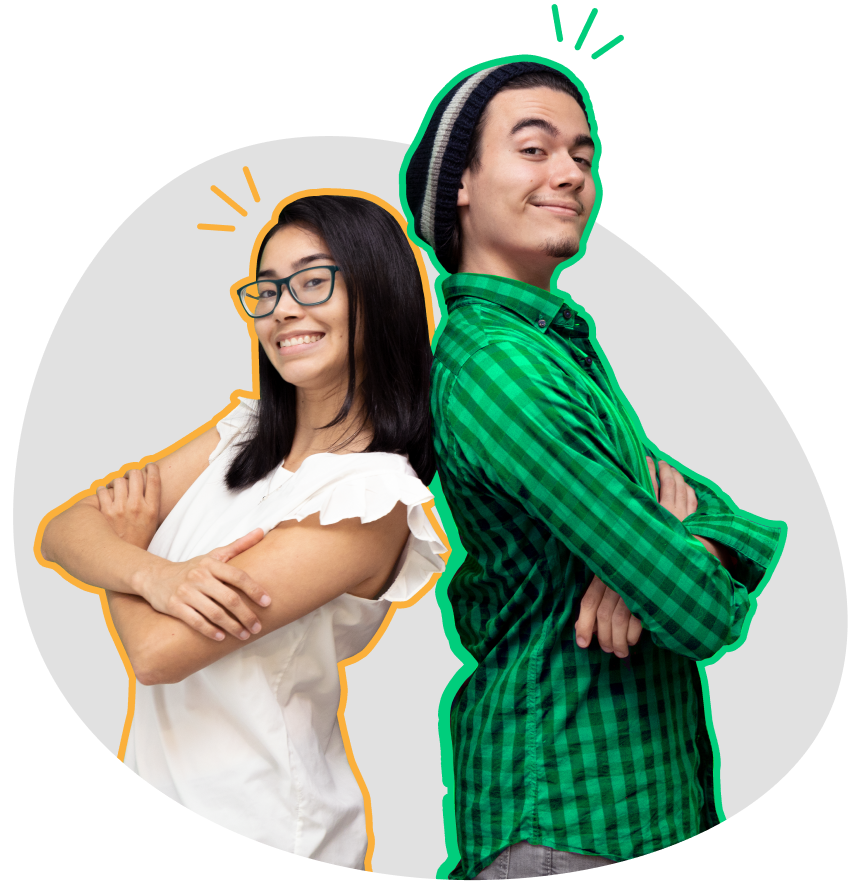
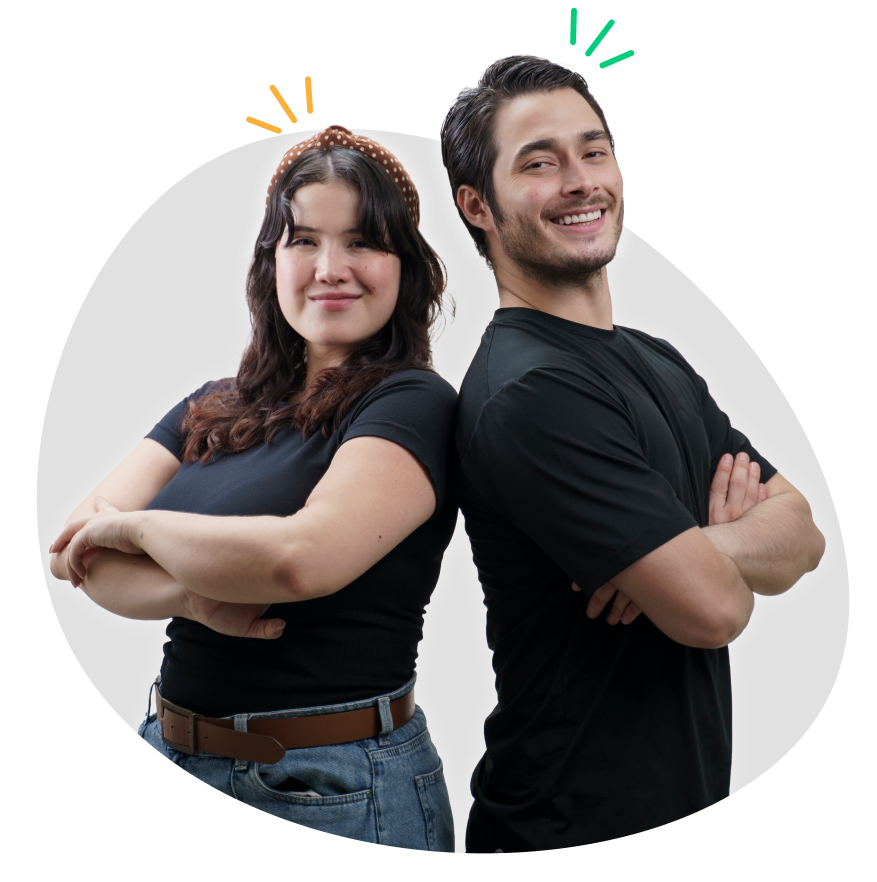
update

diff --git a/app/(onboarding)/team/page.tsx b/app/(onboarding)/team/page.tsx
@@ -1,96 +1,81 @@
+import Image from "next/image";
 import React from "react";
 
 export default function Team() {
+  const team = [
+    {
+      name: "Eder Oquendo",
+      role: "C.E.O",
+      image: "/team/eder-oquendo.jpg",
+    },
+    {
+      name: "Karol Spencer",
+      role: "C.O.O",
+      image: "/team/karol-spencer.jpg",
+    },
+    {
+      name: "Esteban Marin",
+      role: "Accounting Services Manager",
+      image: "/team/esteban.jpg",
+    },
+    {
+      name: "Camila Cassari",
+      role: "Marketing Lead",
+      image: "/team/mila.jpg",
+    },
+    {
+      name: "Sergio Gil",
+      role: "C.T.O",
+      image: "/team/sergio-gil.jpg",
+    },
+    {
+      name: "Miller García",
+      role: "Graphic Desiner / UI",
+      image: "/team/miller-garcía.jpg",
+    },
+    {
+      name: "Wildelmy Colina",
+      role: "Frontend Developer",
+      image: "/team/wildelmy-colina.jpg",
+    },
+    {
+      name: "Mauricio Jiménez",
+      role: "Creative Lead",
+      image: "/team/mauricio.jpg",
+    },
+    {
+      name: "Robert Moreno",
+      role: "Big Data",
+      image: "/team/robert-moreno.jpg",
+    },
+    {
+      name: "Maria Borja",
+      role: "Community Manager",
+      image: "/team/maria-borja.jpg",
+    },
+  ];
   return (
     <div className="container">
-      <div className="container-secondary text-center mb-24 md:mb-36">
+      <div className="text-center mb-24 md:mb-36">
         <h1>Team</h1>
         <p className="mt-5">
           To achieve 100,000 daily active users on the app within 24 months from
           its launch.
         </p>
-        <div className="flex flex-wrap justify-center sm:gap-5 gap-10 sm:gap-y-[50px] mt-16 lg:max-w-[80%] mx-auto">
-          <div className="lg:text-left w-full md:w-[40%] lg:w-[30%]">
-            <img
-              src="/team/eder-oquendo.jpg"
-              alt="Eder Oquendo"
-              className="border-radius"
-            />
-            <p className="font-bold text-xl mt-5">Eder Oquendo</p>
-            <p>CEO</p>
-          </div>
-          <div className="lg:text-left w-full md:w-[40%] lg:w-[30%]">
-            <img
-              src="/team/esteban.jpg"
-              alt="Esteban Marin"
-              className="border-radius"
-            />
-            <p className="font-bold text-xl mt-5">Esteban Marin</p>
-            <p>Accounting Services Manager</p>
-          </div>
-          <div className="lg:text-left w-full md:w-[40%] lg:w-[30%]">
-            <img
-              src="/team/mila.jpg"
-              alt="Eder Oquendo"
-              className="border-radius"
-            />
-            <p className="font-bold text-xl mt-5">Camila Cassari</p>
-            <p>Marketing Lead</p>
-          </div>
-          <div className="lg:text-left w-full md:w-[40%] lg:w-[30%]">
-            <img
-              src="/team/sergio-gil.jpg"
-              alt="Sergio Gil"
-              className="border-radius"
-            />
-            <p className="font-bold text-xl mt-5">Sergio Gil</p>
-            <p>CTO</p>
-          </div>
-          <div className="lg:text-left w-full md:w-[40%] lg:w-[30%]">
-            <img
-              src="/team/miller-garcía.jpg"
-              alt="Miller García"
-              className="border-radius"
-            />
-            <p className="font-bold text-xl mt-5">Miller García</p>
-            <p>Graphic Desiner / UI</p>
-          </div>
-          <div className="lg:text-left w-full md:w-[40%] lg:w-[30%]">
-            <img
-              src="/team/wildelmy-colina.jpg"
-              alt="Wildelmy Colina"
-              className="border-radius"
-            />
-            <p className="font-bold text-xl mt-5">Wildelmy Colina</p>
-            <p>Frontend Developer</p>
-          </div>
-          <div className="lg:text-left w-full md:w-[40%] lg:w-[30%]">
-            <img
-              src="/team/mauricio.jpg"
-              alt="Mauricio Jiménez"
-              className="border-radius"
-            />
-            <p className="font-bold text-xl mt-5">Mauricio Jiménez</p>
-            <p>Creative Lead</p>
-          </div>
-          <div className="lg:text-left w-full md:w-[40%] lg:w-[30%]">
-            <img
-              src="/team/robert-moreno.jpg"
-              alt="Robert Moreno"
-              className="border-radius"
-            />
-            <p className="font-bold text-xl mt-5">Robert Moreno</p>
-            <p>Big Data</p>
-          </div>
-          <div className="lg:text-left w-full md:w-[40%] lg:w-[30%]">
-            <img
-              src="/team/maria-borja.jpg"
-              alt="Maria Borja"
-              className="border-radius"
-            />
-            <p className="font-bold text-xl mt-5">Maria Borja</p>
-            <p>Community Manager</p>
-          </div>
+        <div className="grid md:grid-cols-2 lg:grid-cols-3 xl:grid-cols-4 gap-x-5 gap-y-12 lg:text-left mt-16 mx-auto">
+          {team.map((member, i) => (
+            <div key={i} className="">
+              <Image
+                width="270"
+                height="270"
+                src={member.image}
+                alt={member.name}
+                className="border-radius w-full"
+              />
+              <h3 className="font-bold text-xl mt-4">{member.name}</h3>
+              <p>{member.role}</p>
+            </div>
+          ))}
         </div>
       </div>
     </div>

diff --git a/app/components/layout/OnboardingNav.tsx b/app/components/layout/OnboardingNav.tsx
@@ -16,7 +16,7 @@ export default function OnboardingNav({ isScrolled }: { isScrolled: boolean }) {
     >
       <label
         htmlFor="app-drawer"
-        className={`fixed top-3 md:relative z-50 lg:z-10 right-4 block h-fit text-black p-2 cursor-pointer rounded-full md:rounded-none lg:pb-6 ${
+        className={`fixed top-3 md:relative z-50 lg:z-10 right-4 block h-fit lg:p-0 text-black p-2 cursor-pointer rounded-full md:rounded-none ${
           isScrolled
             ? `backdrop-blur-[20px] bg-gray-150/80 lg:pb-0`
             : "bg-gray-150"

diff --git a/app/(onboarding)/layout.tsx b/app/(onboarding)/layout.tsx
@@ -48,7 +48,7 @@ export default function OnboardingLayout({
             <div
               className={`w-full ${
                 isScrolled
-                  ? `backdrop-blur-[20px] bg-gray-150/80`
+                  ? `backdrop-blur-[20px] bg-gray-150/80 pb-5`
                   : "bg-gray-150"
               }`}
             >
